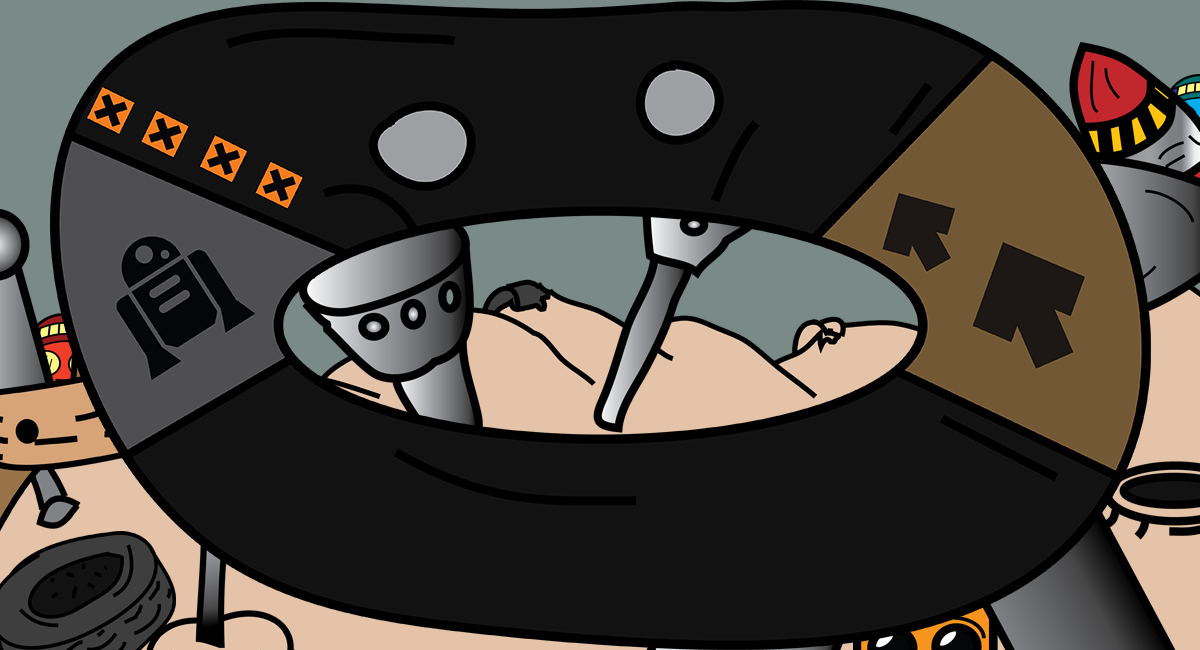
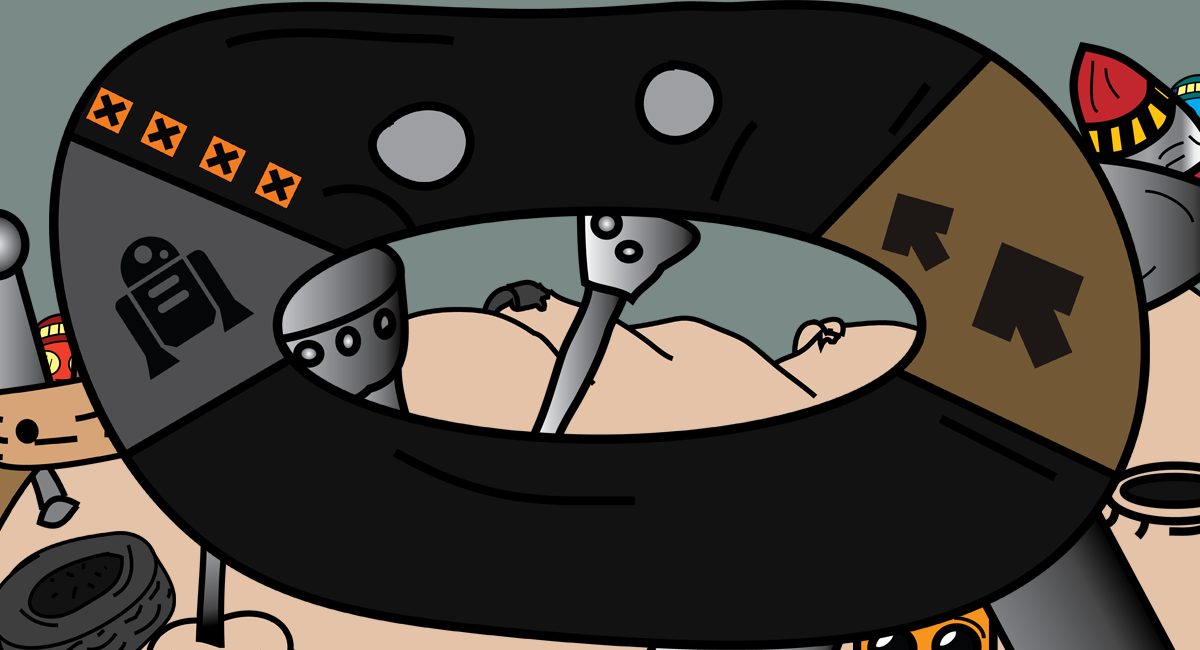
Hatter meg mindig nincs

diff --git a/Phobe/src/Game/LittleBot.java b/Phobe/src/Game/LittleBot.java
@@ -6,7 +6,6 @@ import java.awt.geom.AffineTransform;
 import java.awt.image.BufferedImage;
 import java.io.File;
 import java.io.IOException;
-import java.util.ArrayList;
 import java.util.List;
 
 import javax.imageio.ImageIO;
@@ -65,7 +64,7 @@ public class LittleBot extends Bot {
 			{
 				atCollisionTarget = new Vector2D(Math.random()-0.5,Math.random()-0.5);
 				atCollisionTarget.Normalize();
-				atCollisionTarget.Scale(LittleBot.Radius*10);
+				atCollisionTarget.Scale(LittleBot.Radius*4);
 				atCollisionTarget = atCollisionTarget.Add(position);
 			}while(map.isOutOfTrack(atCollisionTarget));
 		}
@@ -86,7 +85,6 @@ public class LittleBot extends Bot {
 		grap.drawImage(littleBotImage, trans, null);
 	}
 
-	
 	private void moveToPosition(Vector2D target, Map map)
 	{
 		// Csak hogy ne lepje at.

diff --git a/Phobe/src/GUI/MainWindow.java b/Phobe/src/GUI/MainWindow.java
@@ -1,10 +1,7 @@
 package GUI;
 
 import java.awt.BorderLayout;
-import java.awt.Color;
-import java.awt.Dimension;
 import java.awt.Graphics;
-import java.awt.Image;
 import java.awt.event.KeyEvent;
 import java.awt.event.KeyListener;
 import java.awt.event.WindowEvent;
@@ -14,7 +11,6 @@ import java.io.IOException;
 import java.util.HashMap;
 
 import javax.imageio.ImageIO;
-import javax.swing.ImageIcon;
 import javax.swing.JComponent;
 import javax.swing.JFrame;
 import javax.swing.JPanel;
@@ -133,6 +129,10 @@ public class MainWindow extends JFrame {
 	
 	private class ImageBackgroundJPanel extends JPanel
 	{
+		/**
+		 * 
+		 */
+		private static final long serialVersionUID = -5427677446748138452L;
 		private BufferedImage img;
 		
 		public ImageBackgroundJPanel(String imgPath) throws IOException {

diff --git a/Phobe/src/Game/Robot.java b/Phobe/src/Game/Robot.java
@@ -67,12 +67,15 @@ public class Robot extends Bot implements GameObject {
 	public void CollisionWithRobot(Robot robi) {
 		if (position.Distance(robi.getPosition()) < 2 * Radius
 				&& robi.isAlive() && alive) {
+			
 			double r1Speed = this.getSpeed().Length();
 			double r2Speed = robi.getSpeed().Length();
 			Vector2D newSp = new Vector2D(speed);
-			newSp.Add(robi.getSpeed());
+			newSp = newSp.Add(robi.getSpeed());
 			newSp.Scale(0.5);
 
+			System.out.println(newSp);
+			
 			if (r1Speed < r2Speed) {
 				robi.setSpeed(newSp);
 				this.KillHim();

diff --git a/Phobe/src/Game/Game.java b/Phobe/src/Game/Game.java
@@ -16,7 +16,7 @@ import java.util.List;
 
 public class Game extends JComponent implements Runnable {
 
-	private static final int initialPlacedObstacles = 0;
+	private static final int initialPlacedObstacles = 2;
 	private static final Vector2D littleBotsEntryPosition = new Vector2D(600,
 			30);
 	private static final int littleBotEntryPeriod = 600;

diff --git a/Phobe/src/Game/Map.java b/Phobe/src/Game/Map.java
@@ -62,12 +62,7 @@ public class Map implements GameObject {
 		return mask.getRGB(X,Y) == Color.WHITE.getRGB();
 	}
 
-	/*public Vector2D[] getTrackLine(){
-	
-	
-	}*/
-
-	/**
+	                       /**
 	 * Frissíti a térkép állapotát.
 	 * 
 	 * @param g: az objektumot vezérlő Game osztály.
